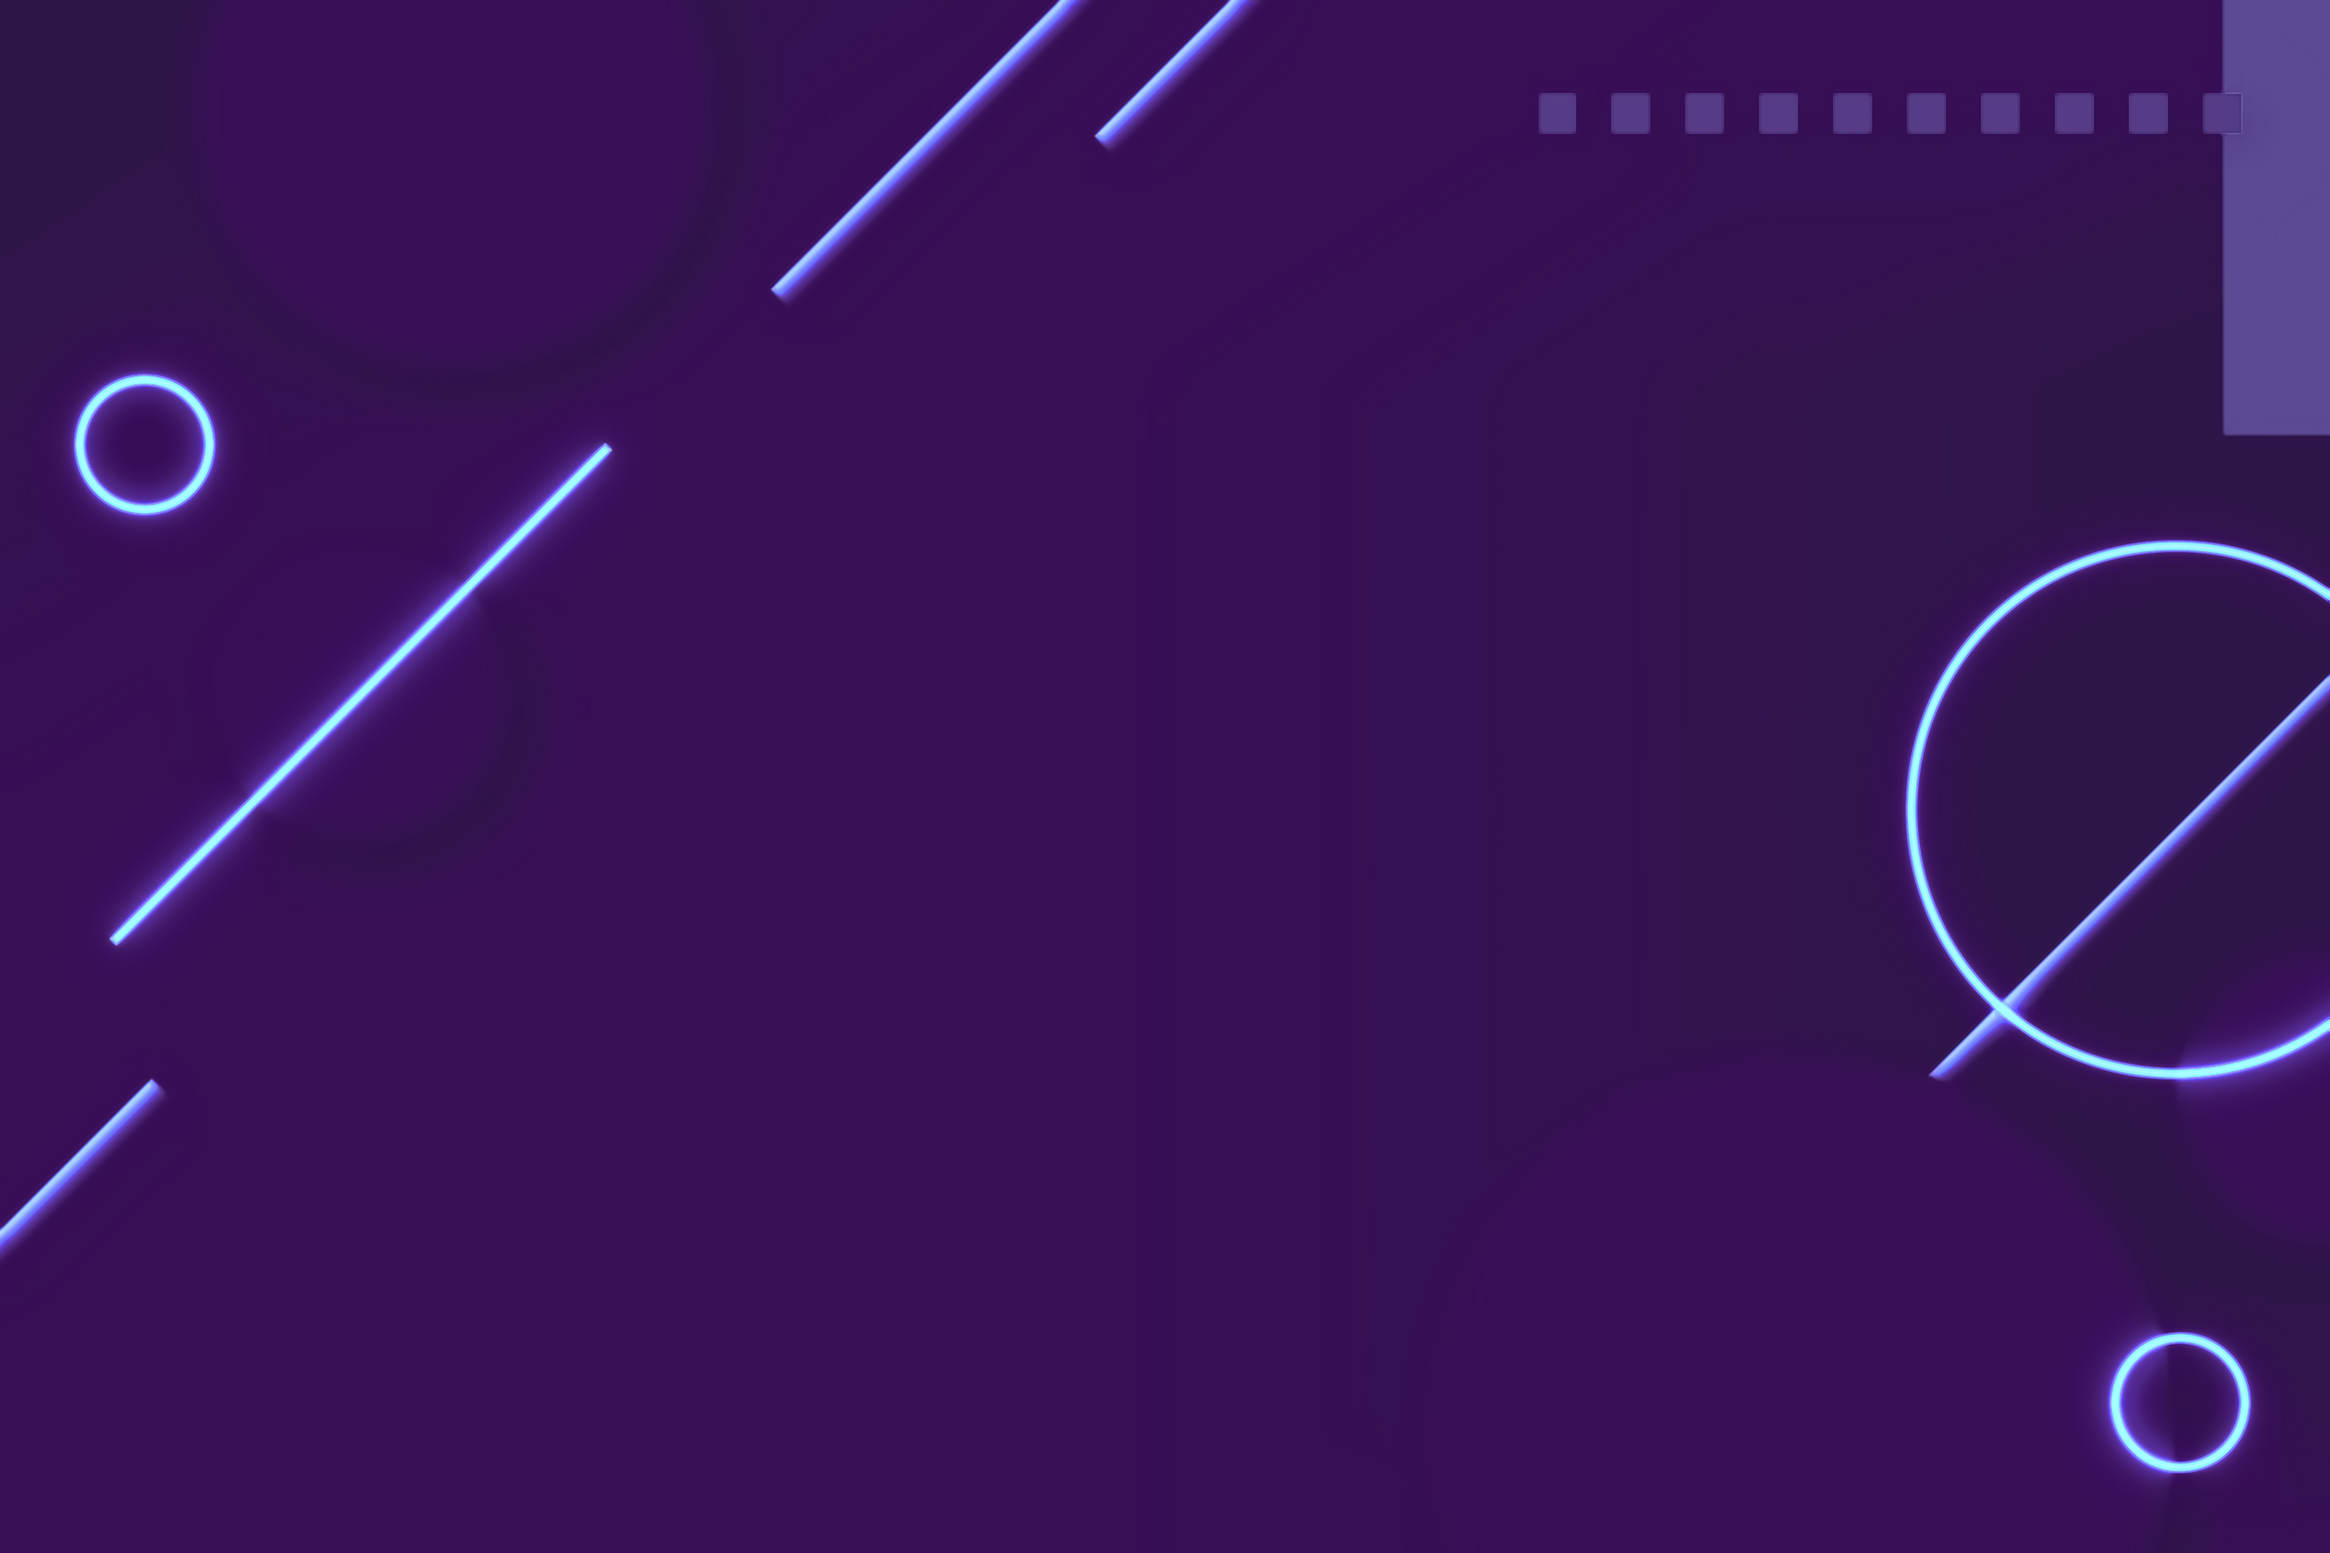
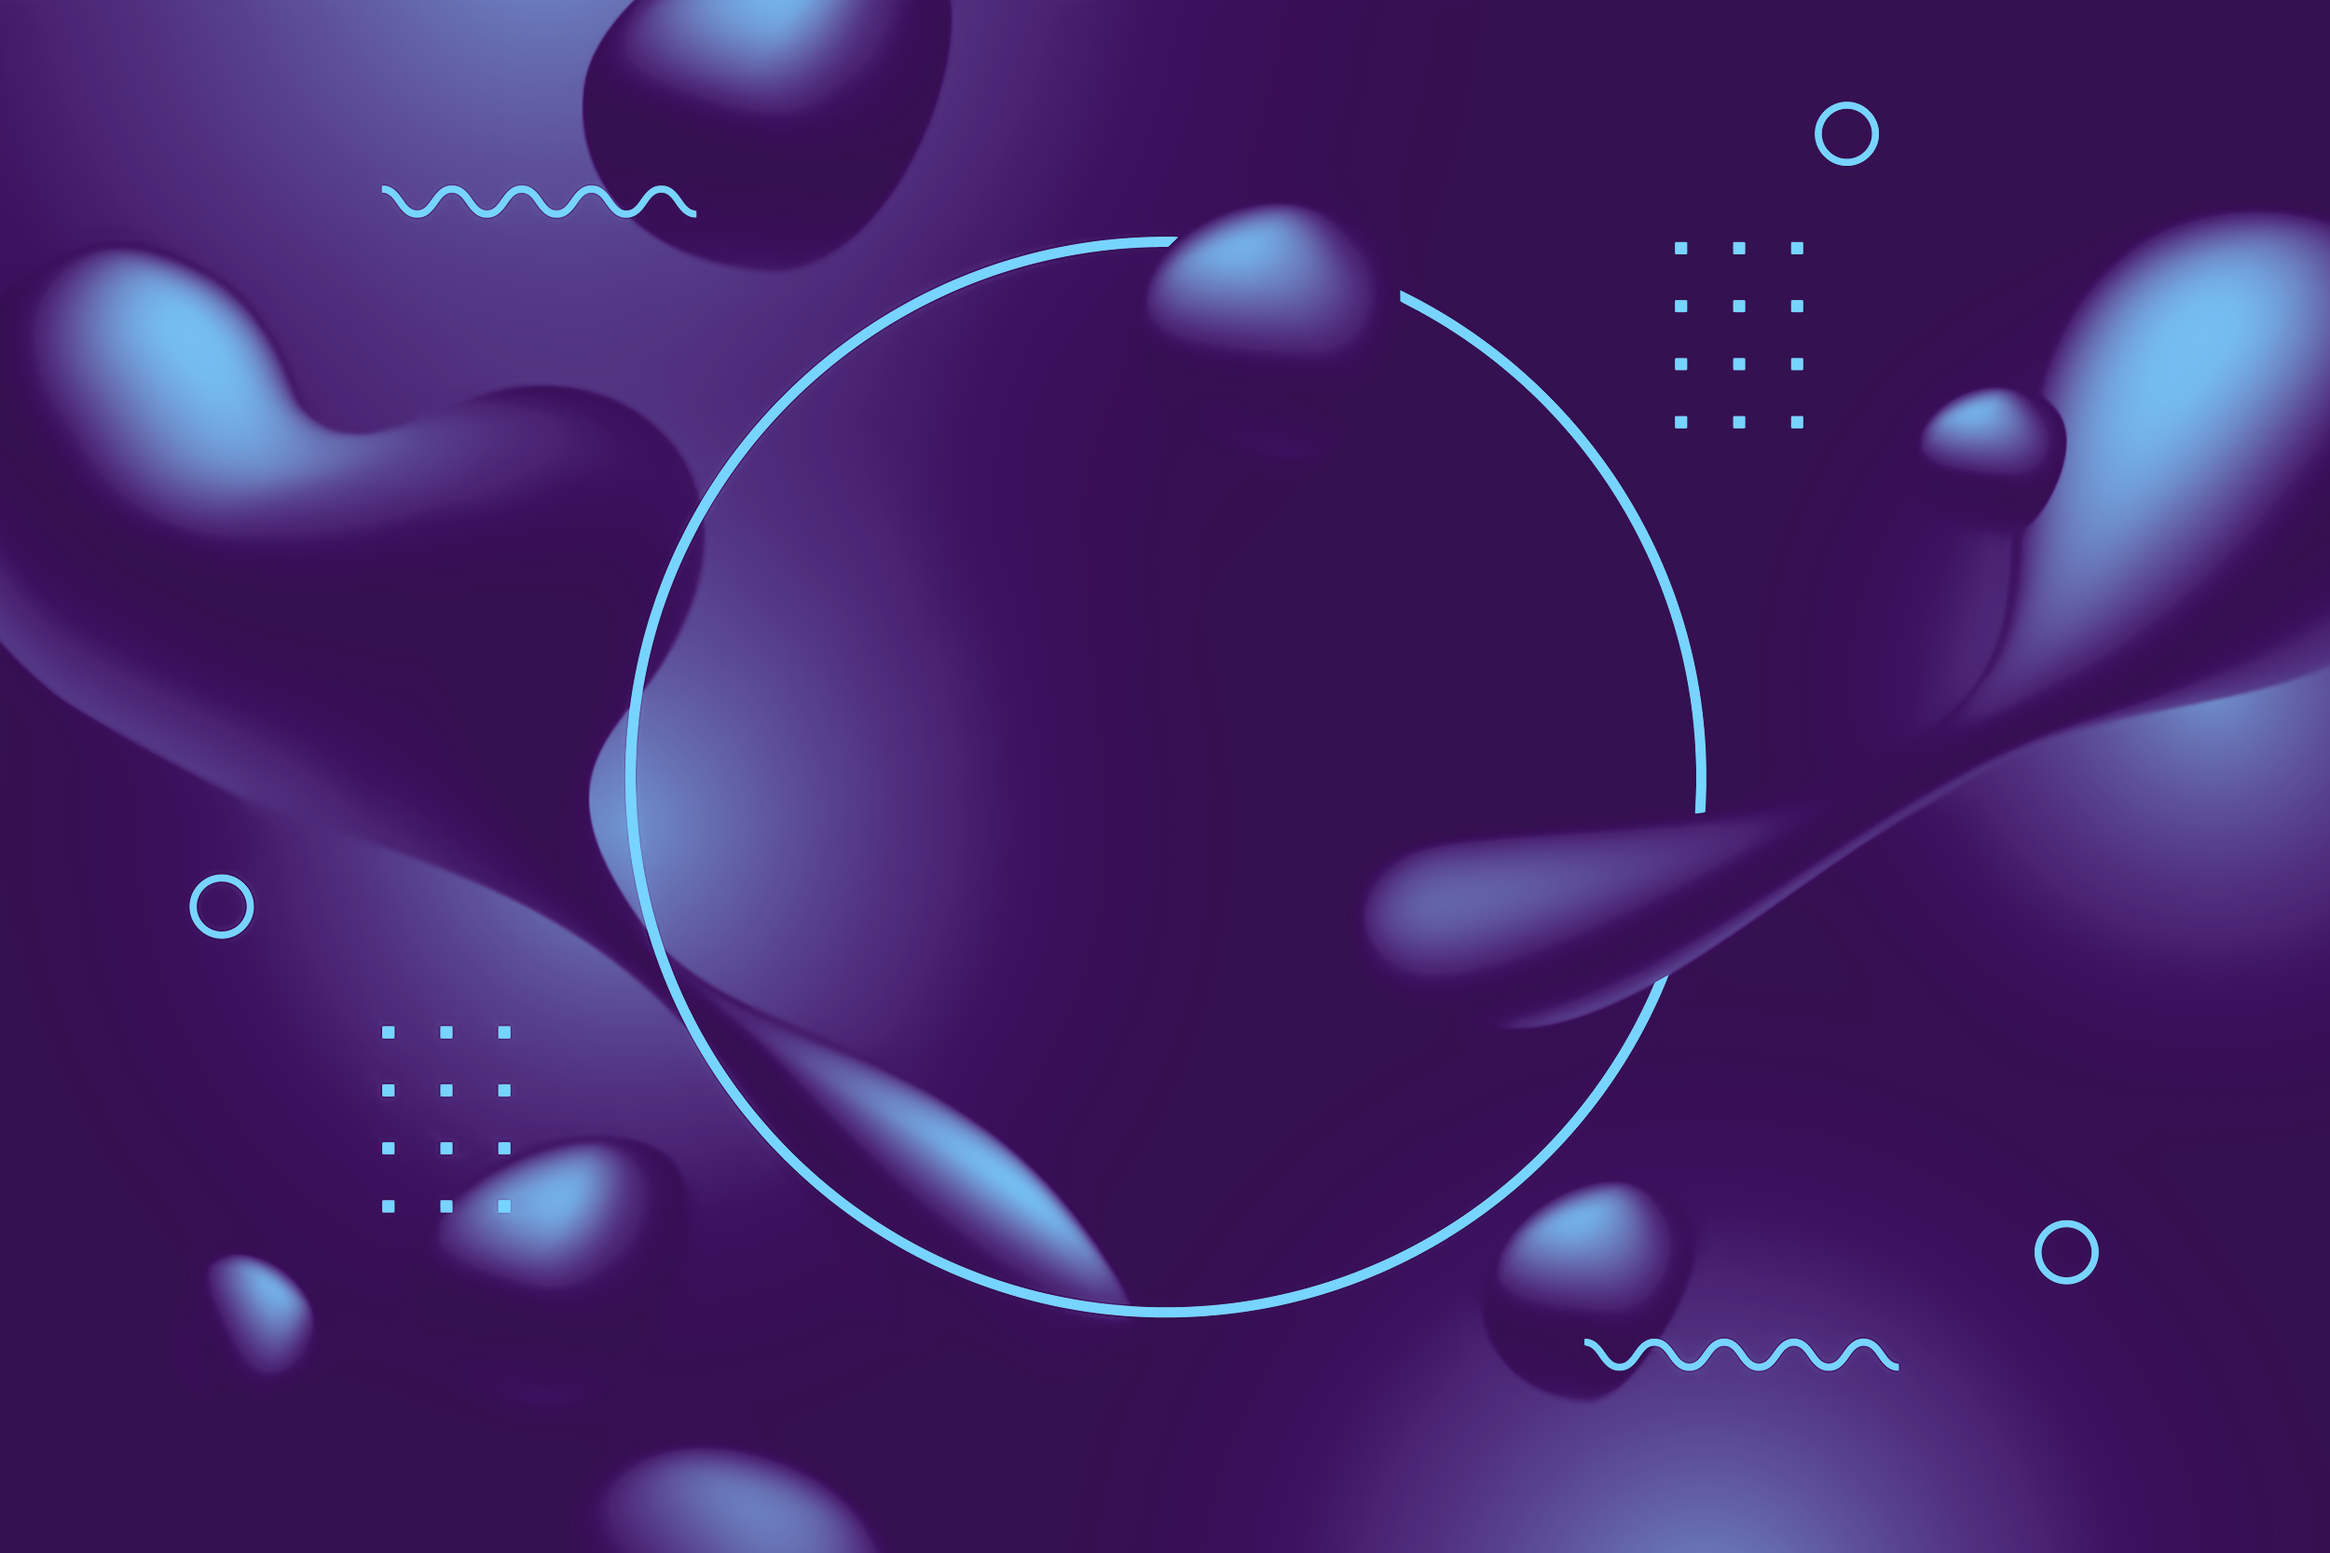
new design

diff --git a/coolest_site/main/static/main/css/main.css b/coolest_site/main/static/main/css/main.css
@@ -4,7 +4,7 @@ body {
     font-optical-sizing: auto;
     font-weight: <weight>;
     font-style: normal;
-    background-image: url(../img/background.jpg);
+    background-image: url(../img/background.png);
     background-repeat: no-repeat;
     background-size: cover;
     background-position: center center;
@@ -18,8 +18,8 @@ aside {
     width: 20%;
     padding: 2.5%;
     height: 100vh;
-    border-right: 5px solid #8dd2ff;
-    background-image: url(../img/background.jpg);
+    border-right: 5px solid ##24b651;
+
     background-repeat: no-repeat;
     background-size: cover;
     background-position: left;
@@ -37,7 +37,7 @@ aside img {
 aside ul {
     list-style: none;
     backdrop-filter: blur(25px);
-    box-shadow: 30px 20px 50px #200d34;
+    box-shadow: 30px 20px 50px #040d14;
     border-radius: 15px;
     border-top: 1px solid #617a8a;
     border-left: 1px solid #617a8a;
@@ -48,7 +48,7 @@ aside ul {
 }
 
 aside ul li {
-    color: #b3a9f3;
+    color: #53be48;
     display: block;
     margin-top: 50px;
     font-size: 25px;
@@ -56,7 +56,7 @@ aside ul li {
 }
 
 aside ul li:hover, aside ul a:hover {
-    color: #8dd2ff;
+    color: #b0f3a9;
     text-decoration: none;
     transform: scale(1.03)
 }
@@ -67,13 +67,13 @@ main .contents p {
     width: 750px;
     margin: 25vh auto;
     font-size: 30px;
-    color: #b3a9f3;
+    color: #53be48;
     position: absolute;
     top: 20%; left: 280px;
     backdrop-filter: blur(15px);
     margin-left: 15%;
 
-    box-shadow: 30px 20px 50px #200d34;
+    box-shadow: 30px 20px 50px #040d14;
     border-radius: 15px;
     border-top: 1px solid #617a8a;
     border-left: 1px solid #617a8a;
@@ -87,7 +87,7 @@ main .contents p {
 
 main .header h1 {
     font-size: 55px;
-    color: #b3a9f3;
+    color: #53be48;
 
     width: 360px;
 

diff --git a/coolest_site/main/templates/main/layout.html b/coolest_site/main/templates/main/layout.html
@@ -9,18 +9,20 @@
     <meta name="description",
           content="I'm Roma lbj a rookie developer and here's something I want to tell you about myself" />
     <title>{% block title %}{% endblock %}</title>
+    <link rel="shortcut icon" type="image/jpg" href="{% static 'main/img/logo2.png' %}"/>
     <link rel="stylesheet" href="https://cdn.jsdelivr.net/npm/bootstrap@5.3.2/dist/css/bootstrap.min.css">
     <link rel="stylesheet" href="https://use.fontawesome.com/releases/v6.5.1/css/all.css">
     <link rel="stylesheet" href="{% static 'main/css/main.css' %}">
-    <link rel="hortcut icon" href="{% static 'main/img/logo.png' %}">
-    <link rel="hortcut icon" href="{% static 'main/img/background.jpg' %}">
+   /* <link rel="hortcut icon" href="{% static 'main/img/logo.png' %}">  */
+    <link rel="shortcut icon" href="{% static 'main/img/logo2.png' %}">
+    <link rel="shortcut icon" href="{% static 'main/img/background.png' %}">
     <link rel="preconnect" href="https://fonts.googleapis.com">
     <link rel="preconnect" href="https://fonts.gstatic.com" crossorigin>
     <link href="https://fonts.googleapis.com/css2?family=Montserrat:ital,wght@0,100..900;1,100..900&display=swap" rel="stylesheet">
 </head>
 <body>
     <aside>
-        <a href="{% url 'home' %}" style="text-decoration: none;"><img src="{% static 'main/img/logo.png' %}" alt="logo"></a>
+        <a href="{% url 'home' %}" style="text-decoration: none;"><img src="{% static 'main/img/logo2.png' %}" alt="logo"></a>
         <ul>
             <a href="{% url 'home' %}" style="text-decoration: none;"><li><i class="fa-solid fa-house"></i> <strong>HOME</strong></li></a>
             <a href="{% url 'works' %}" style="text-decoration: none;"><li><i class="fa-solid fa-briefcase"></i> <strong>WORKS</strong></li></a>
